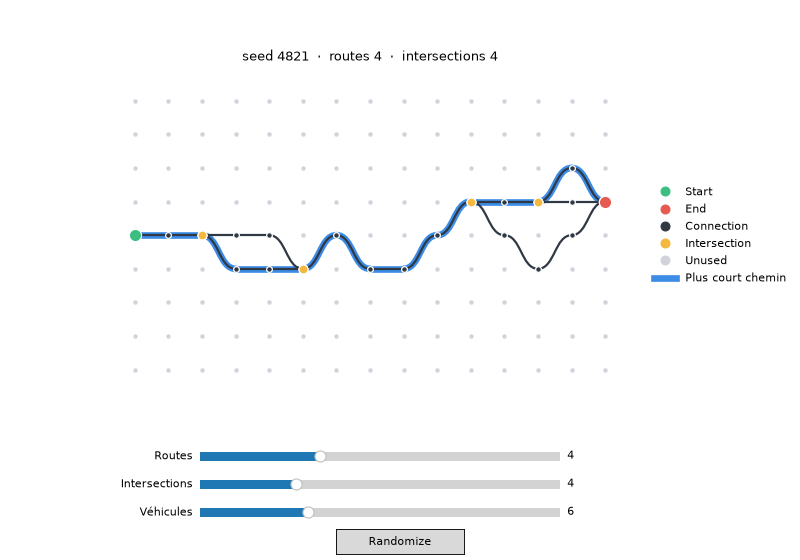
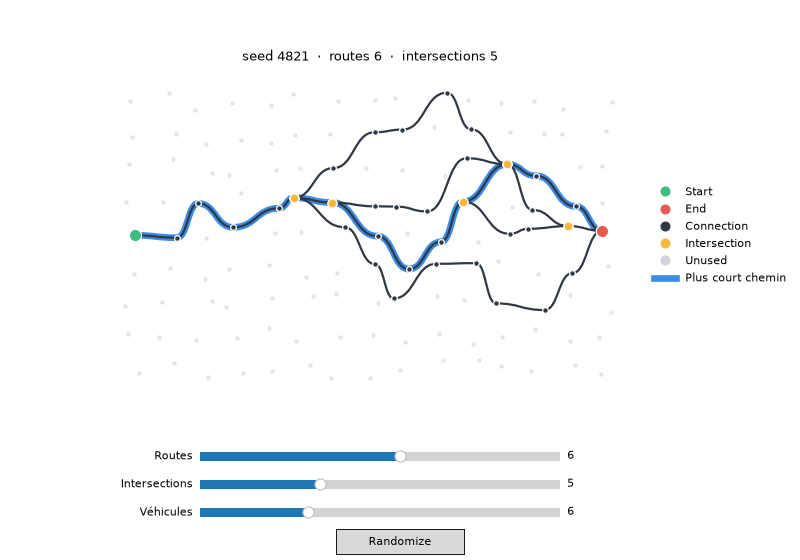
Rendu organique : nodes décalés à l'écran, courbes partout

diff --git a/display.py b/display.py
@@ -1,5 +1,6 @@
 """L'écran : dessin, animation, curseurs et véhicules (features 4, 6, 9, 11, 14, 15)."""
 
+import random
 import time
 
 import matplotlib.pyplot as plt
@@ -41,6 +42,8 @@ VEHICLE_COLORS = ["#8E44AD", "#E67E22", "#16A085", "#C0392B", "#2980B9", "#D3540
                   "#27AE60", "#7F8C8D", "#F1C40F", "#E84393"]
 VEHICLE_SIZE = 70
 CURVED_ROADS = True  # False = segments droits
+JITTER = 0.3  # décalage max à l'écran ; < 0.5 garde l'ordre des nodes (aucun croisement)
+layout = {"seed": 0}  # seed du décalage, changée à chaque réseau
 CURVE_STRENGTH = 0.5  # 0 = droit, 0.5 = courbe douce
 FRAME_INTERVAL = 50  # millisecondes entre deux images (20 fps : fluide, CPU raisonnable)
 SEGMENTS_PER_FRAME = 1  # vitesse de construction
@@ -51,16 +54,25 @@ MAX_INTERSECTIONS = 15
 MAX_VEHICLES = 20
 
 
+def get_position(node: Node) -> tuple[float, float]:
+    """Position à l'écran : la case de la grille + un petit décalage au hasard (aspect organique).
+    Même seed + même case = même décalage. Le modèle, lui, reste sur la grille."""
+    rng = random.Random(f"{layout['seed']}-{node.x}-{node.y}")
+    return (node.x + rng.uniform(-JITTER, JITTER), node.y + rng.uniform(-JITTER, JITTER))
+
+
 def get_curve_points(a: Node, b: Node) -> list[tuple[float, float]]:
     """4 points de contrôle d'une courbe de Bézier à tangentes horizontales (a à gauche)."""
-    bend = CURVE_STRENGTH * (b.x - a.x)
-    return [(a.x, a.y), (a.x + bend, a.y), (b.x - bend, b.y), (b.x, b.y)]
+    (ax_, ay), (bx, by) = get_position(a), get_position(b)
+    bend = CURVE_STRENGTH * (bx - ax_)
+    return [(ax_, ay), (ax_ + bend, ay), (bx - bend, by), (bx, by)]
 
 
 def get_point_on_segment(a: Node, b: Node, t: float) -> tuple[float, float]:
     """Position à t (0 -> 1) sur la route a -> b, en suivant la même forme que le dessin."""
-    if not CURVED_ROADS or a.y == b.y:
-        return a.x + (b.x - a.x) * t, a.y + (b.y - a.y) * t
+    if not CURVED_ROADS:
+        (x0, y0), (x1, y1) = get_position(a), get_position(b)
+        return x0 + (x1 - x0) * t, y0 + (y1 - y0) * t
     if a.x > b.x:
         a, b, t = b, a, 1 - t
     (x0, y0), (x1, y1), (x2, y2), (x3, y3) = get_curve_points(a, b)
@@ -76,19 +88,20 @@ def draw_segment(ax, segment: Segment, color: str = ROAD_COLOR, width: float = R
     a, b = segment.start, segment.end
     if a.x > b.x:
         a, b = b, a  # toujours dessiner de gauche à droite
-    if CURVED_ROADS and a.y != b.y:
+    if CURVED_ROADS:
         codes = [Path.MOVETO, Path.CURVE4, Path.CURVE4, Path.CURVE4]
         ax.add_patch(PathPatch(Path(get_curve_points(a, b), codes), fill=False,
                                edgecolor=color, linewidth=width, capstyle="round",
                                zorder=zorder))
     else:
-        ax.plot([a.x, b.x], [a.y, b.y], color=color, linewidth=width,
+        (x0, y0), (x1, y1) = get_position(a), get_position(b)
+        ax.plot([x0, x1], [y0, y1], color=color, linewidth=width,
                 solid_capstyle="round", zorder=zorder)
 
 
 def draw_node(ax, node: Node) -> None:
     """Dessine un node avec la couleur et la taille de son type."""
-    ax.plot(node.x, node.y, marker="o", color=COLORS[node.type],
+    ax.plot(*get_position(node), marker="o", color=COLORS[node.type],
             markersize=SIZES[node.type], markeredgecolor="white", zorder=3)
 
 
@@ -130,7 +143,7 @@ def draw_grid(ax, network: RoadNetwork, title: str) -> None:
     ax.axis("off")
     draw_legend(ax)
     for node in network.nodes:
-        ax.plot(node.x, node.y, marker="o", color=COLORS[NodeType.UNUSED],
+        ax.plot(*get_position(node), marker="o", color=COLORS[NodeType.UNUSED], alpha=0.5,
                 markersize=SIZES[NodeType.UNUSED], zorder=2)
 
 
@@ -149,7 +162,7 @@ def get_vehicle_positions(traffic: Traffic) -> list[tuple[float, float]]:
     positions = []
     for vehicle in traffic.get_moving():
         if vehicle.target is None:
-            positions.append((vehicle.current.x, vehicle.current.y))
+            positions.append(get_position(vehicle.current))
         else:
             positions.append(get_point_on_segment(vehicle.current, vehicle.target,
                                                   vehicle.progress))
@@ -231,6 +244,7 @@ class NetworkView:
         """Arrête l'animation en cours et en démarre une nouvelle."""
         if self.animation is not None:
             self.animation.stop()
+        layout["seed"] = self.seed  # nouveau réseau = nouvelle forme organique
         draw_grid(self.ax, self.network, self.get_title())
         self.built = 0
         if not build:

diff --git a/README.md b/README.md
@@ -66,6 +66,7 @@ Grille invalide (`COLUMNS < 2` ou `ROWS < 1`) : le programme affiche un message 
 - Nombre d'intersections visé réglable ; génération cherche une solution proche.
 - Seed reproductible, Randomize.
 - Construction animée, routes courbes et légende.
+- Aspect organique : chaque node est légèrement décalé à l'écran (`JITTER` dans `display.py`), même seed = même forme. Le modèle reste une grille, donc les règles et les tests ne changent pas.
 - Toutes les routes rejoignent le END (aucun cul-de-sac).
 - Animation optimisée (blitting : seuls les véhicules sont redessinés).
 - Plus court chemin START → END (BFS), surligné en bleu.
